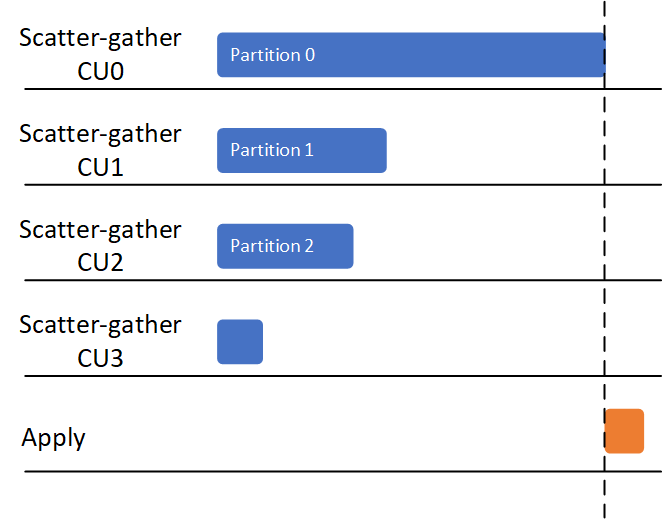
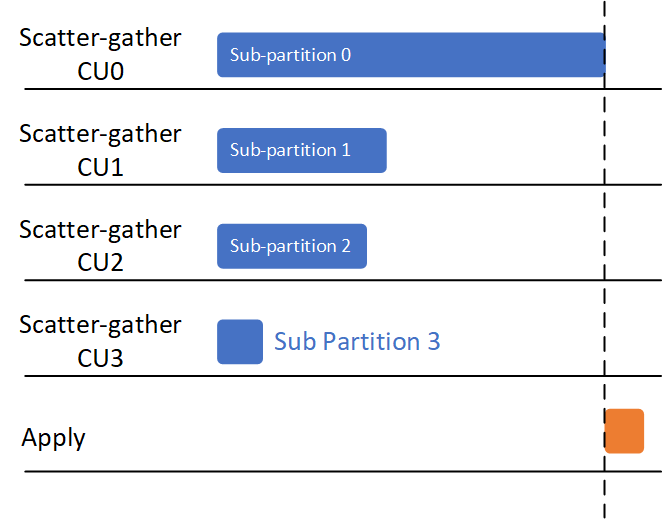
Update docs

diff --git a/docs/scheduling.md b/docs/scheduling.md
@@ -1,9 +1,25 @@
-## Scheduling across Multi-SLRs
-Load-balancing among multiple compute units highly influences the final performance.
+# Scheduling across Multi-SLRs
 
+While modern multi-SLRs based FPGAs provide high memory bandwidth and large hardware resources, utilizing it is not straightforward since the higher bandwidth comes from multiple independent memory channels, and it can make obtaining an efficient mapping of the kernels with high data transmission between the SLRs difficult.
+
+This poses two challenges of deploying efficient graph processing framework to modern FPGAs with multiple SLRs:
+
+* allocating multiple kernels into multiple SLRs to fully utilize the FPGA resources; 
+* scheduling graph partitions through multiple memory channels to fully utilize the memory bandwidth;
+
+
+For the first problem, you can find more details in our paper(under review), and in this section we will focus on the second problem (__scheduling__).
+
+
+## Unbalanced Workloads
 ![normal](images/sche0.png)
 
-This figure shows a processing routine without scheduling, the sub-partitions are arranged in sequence (the 1st sub-partitions goes to 1st CU), and the partitions are processed in order. From our observation, this naive arrangement have significantly bad influence on the performance because the unbalanced sub-partitions.
+This figure shows a processing routine with __naive__ scheduling, the sub-partitions are arranged in sequence (the 1st sub-partitions goes to 1st CU), and the partitions are processed in order. From our observation, this naive arrangement have significantly bad influence on the performance because the __unbalanced__ partitions, following figure shows an __unbalanced__ case.
+
+
+<img src="images/scheduling3.png" alt="drawing" width="500"/>
+
+## Scheduling in ThunderGP
 
 To solve this unbalancing problem, ThunderGP schedules the sub-partitions in the following step:
 
@@ -22,16 +38,16 @@ in here ThunderGP also build a performance estimator:
 * Sample some sub-partitions from the dataset, and get the real execution time in single compute unit.
 * Polynomial model is choosed to  represent this model,  we start fit the model parameters from high order polynomial, and iterativly decrease the order to find the best fitting and estimation.
 
-The result shows that this scheduling scheme have significant improvement on real graph dataset, comparing with the unbalanced order.  For Twitter-SoC dataset it have near **55%** throughput improvement and **21%** for Livejournal.
+The result shows that this scheduling scheme have significant improvement on real graph dataset, comparing with the unbalanced order.  For Twitter-SoC dataset it have near **55%** throughput improvement and **21%** for Livejournal1.
 
 
 ## Customization
 
-ThunderGP also provides intreface for users to customize the scheduling method for further exploration. To write a new scheduler:
+As the scheduling problem is well studied in system communities and there is a huge solution space, ThunderGP also provides interface for users to customize the scheduling method for further exploration. To write a new scheduler:
 
 ![normal](images/sche1.png)
 
-* Firstly, user need to create a folder in the ```libgraph/scheduler```. The name of the folder is also the name of this customized scheduler (e.g. normal).
+* Firstly, user need to create a folder in the ```libgraph/scheduler```. The name of the folder is also the name of this customized scheduler (e.g. *__normal__*).
 
 * Secondly, in this folder, ```scheduler.cpp``` is needed to write the customized code. The two types of arrangement(shown in the above diagram) need to be instanced in a scheduler.
 
@@ -40,7 +56,7 @@ ThunderGP also provides intreface for users to customize the scheduling method f
     * **```partitionArrangement```**: ② in the figure, orchestrates the partitions in a user-defined order.
 
 
-* When this two orchestrations are finished, it need to be integrated into ThunderGP. Taking the existing scheduler as an example: ( ```libgraph/scheduler/normal/scheduler.cpp```)  
+* When this two orchestrations are finished, it need to be integrated into ThunderGP. Taking the existing scheduler named *__normal__* as an example: ( ```libgraph/scheduler/normal/scheduler.cpp```)  
 ```c
 static graphStaticScheduler dut = {
     .init                   = normalInitHanlder,
@@ -74,6 +90,6 @@ CUSTOMIZE_APPLY=false
 HAVE_APPLY_OUTDEG=false
 
 #scheduler
-SCHEDULER=normal  # We modified this parameter
+SCHEDULER=normal  # We modified this parameter from secondOrderEstimator to normal
 
 ```
